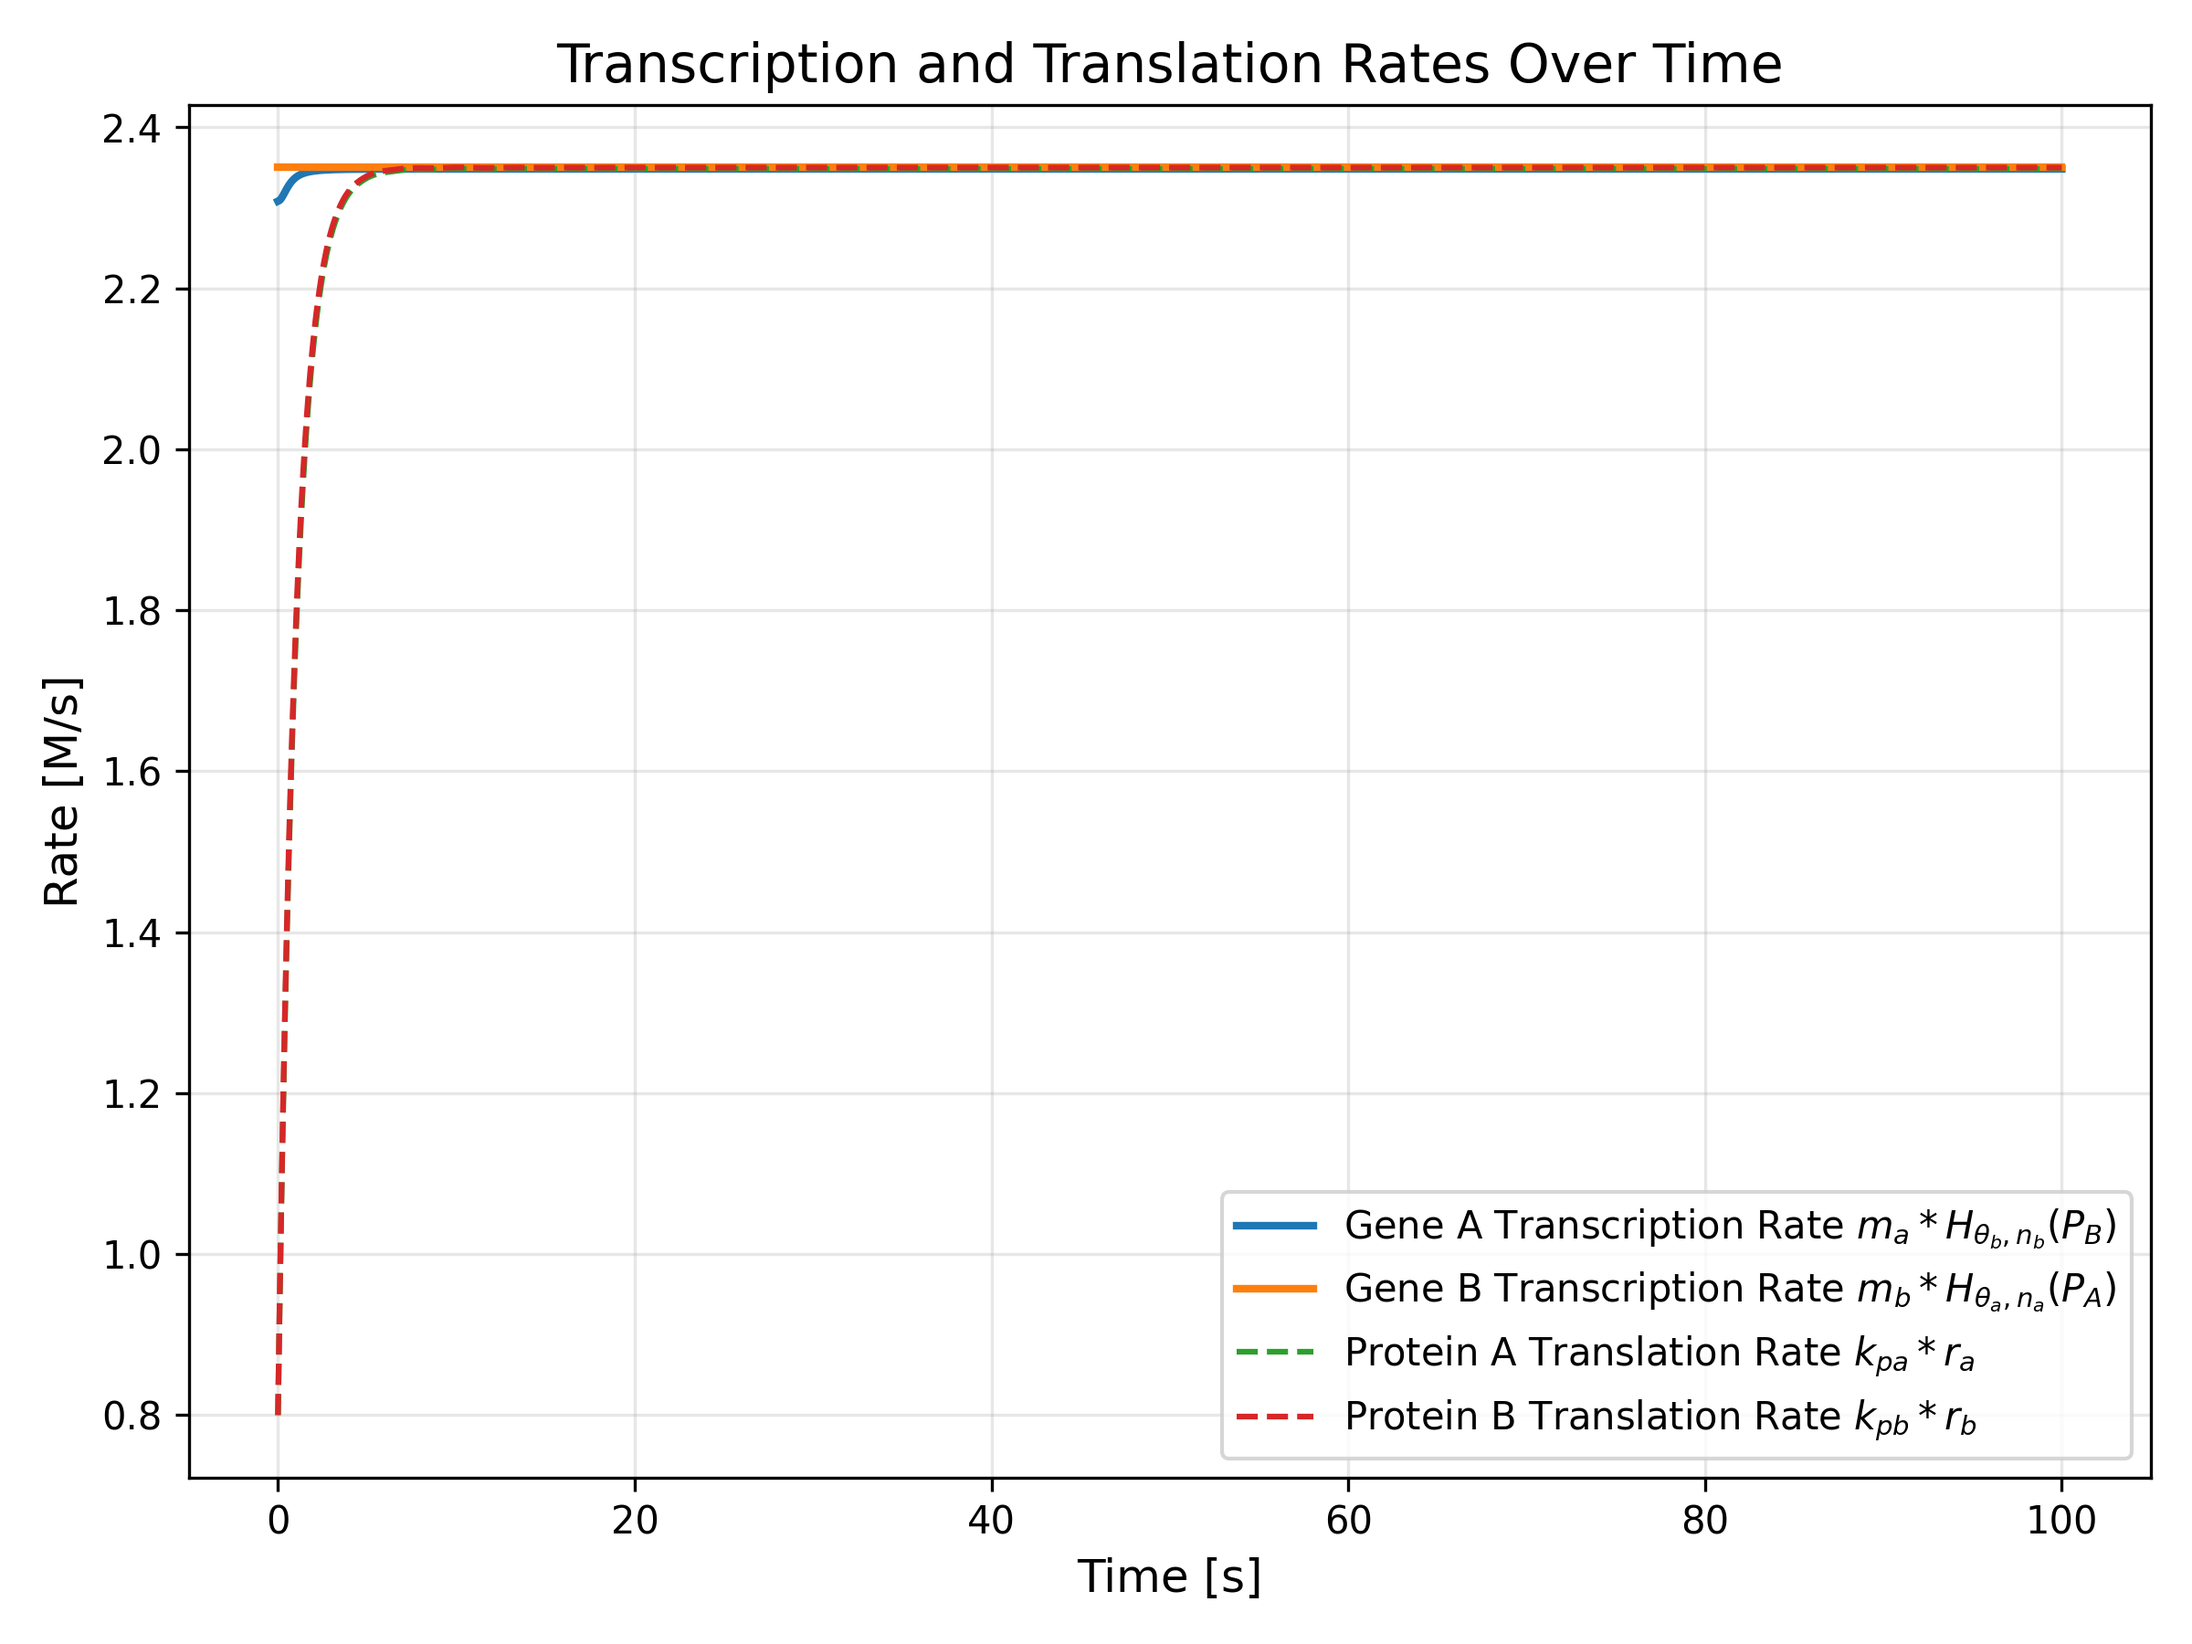
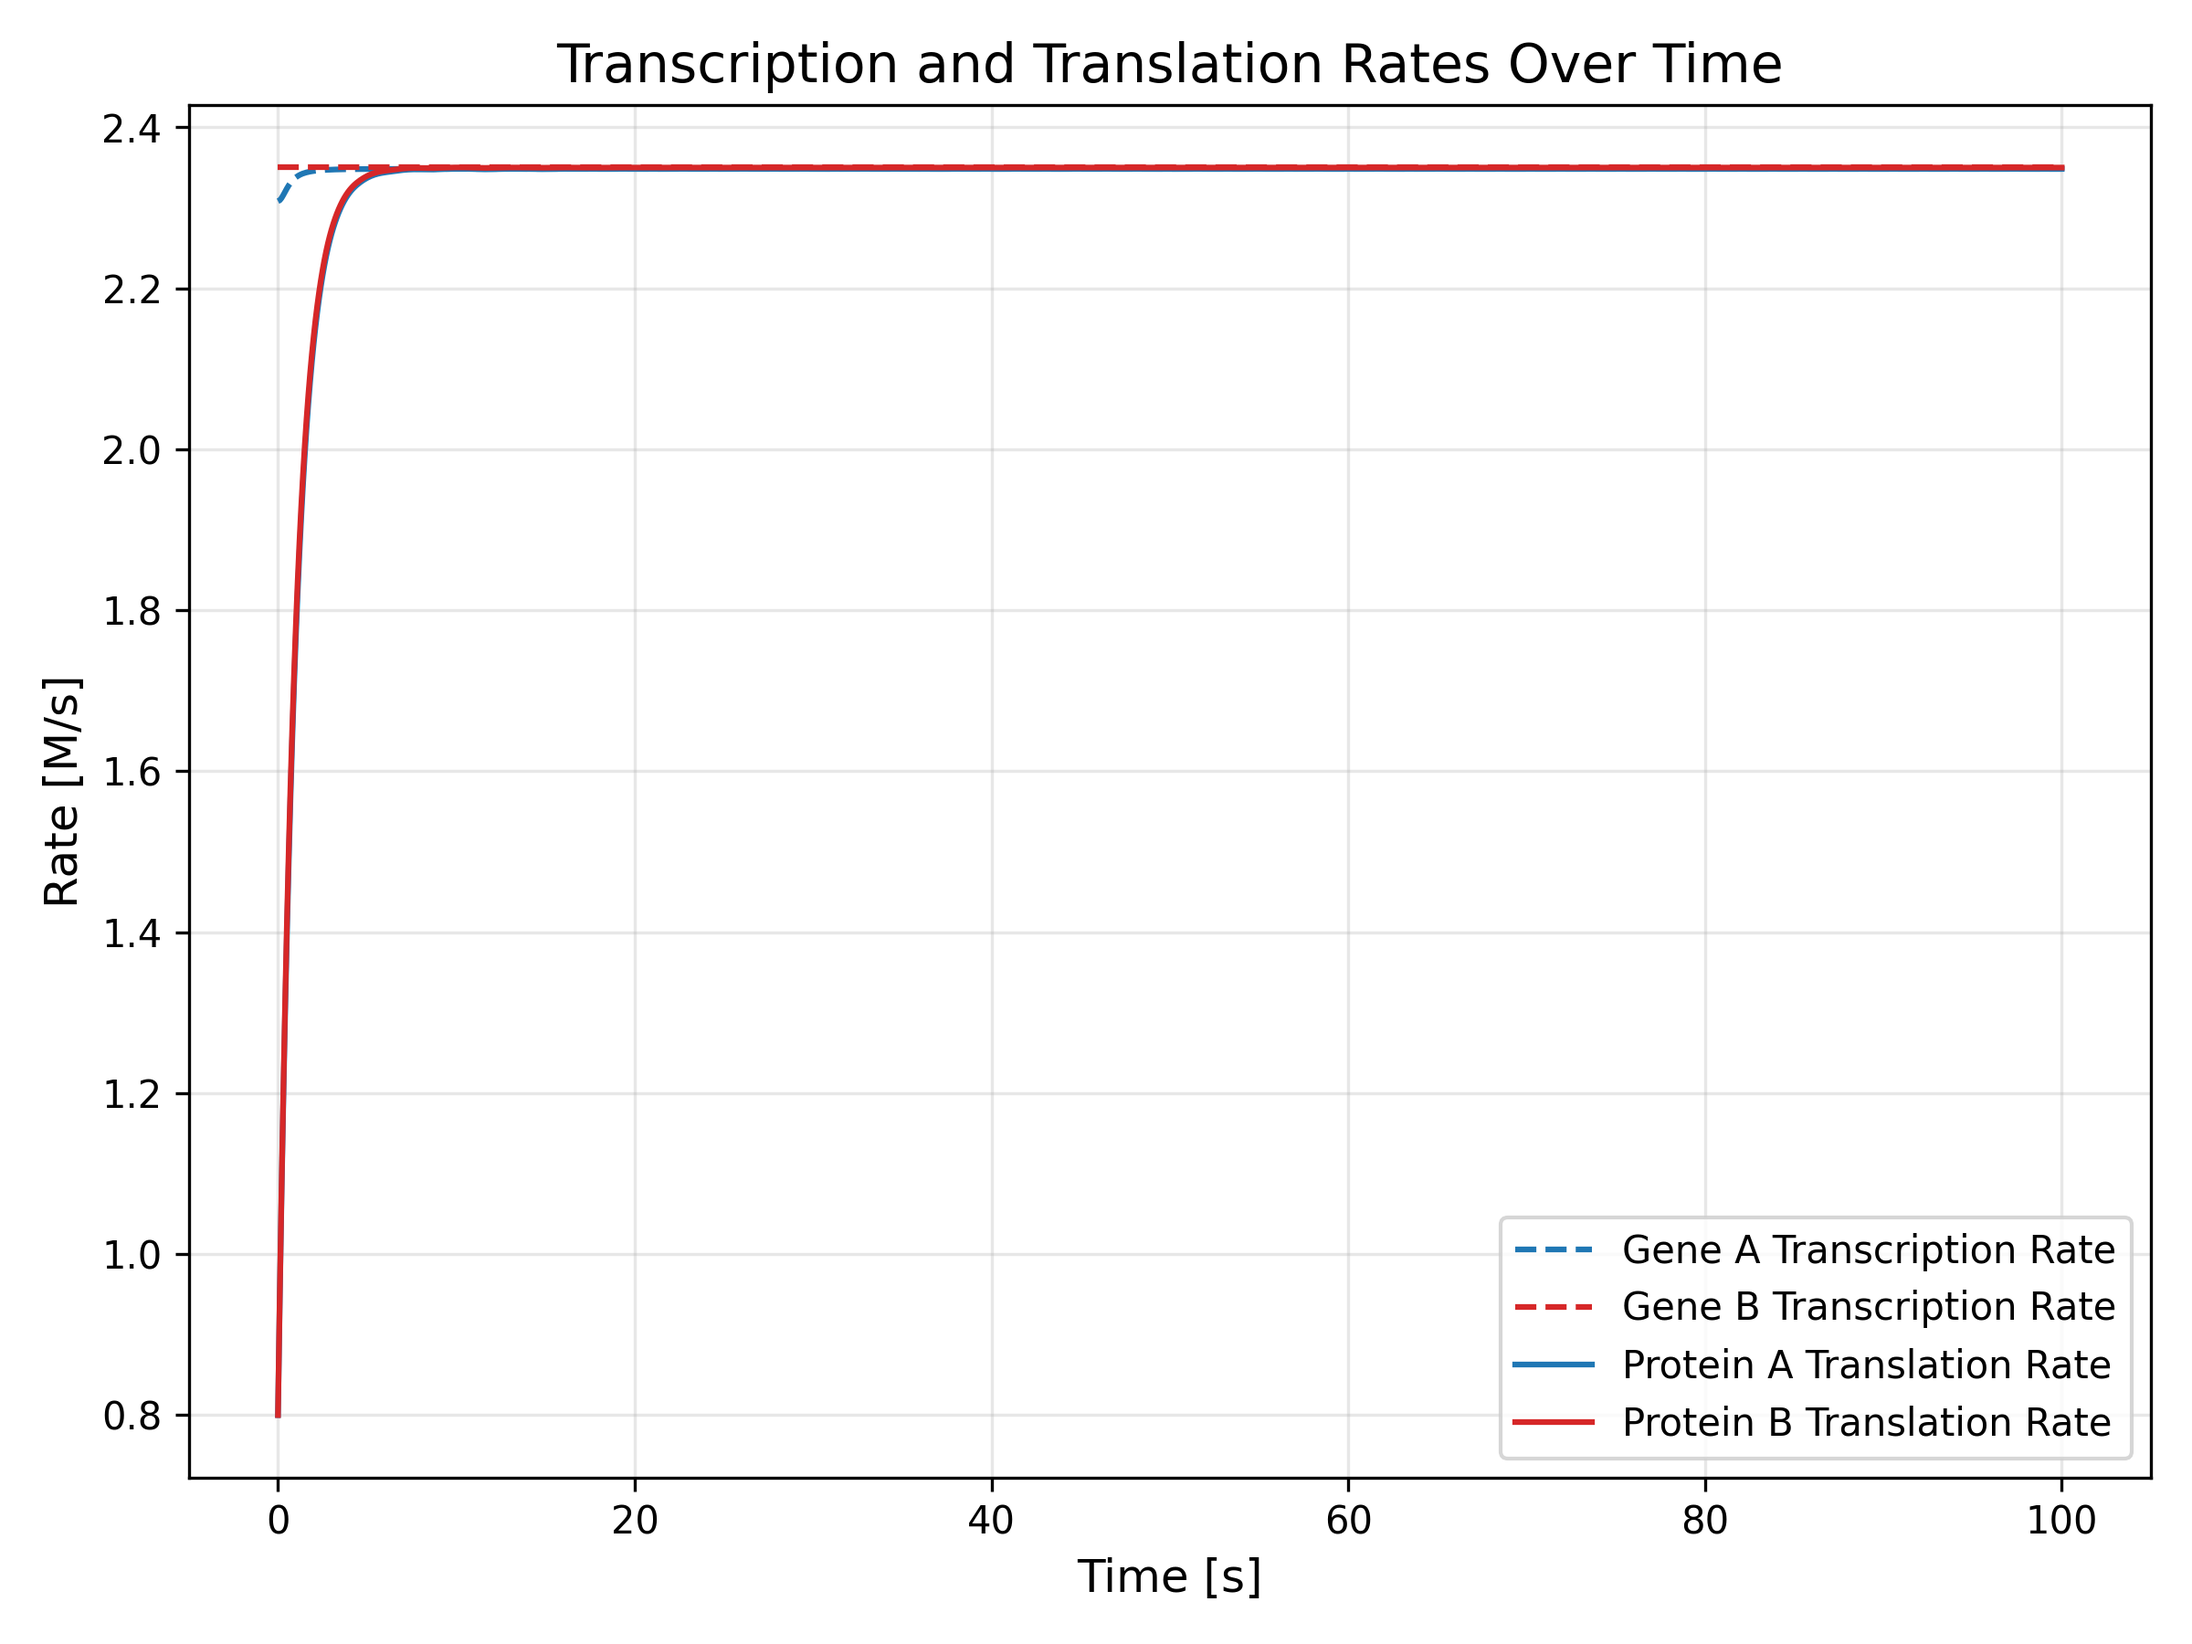
update plots and add headings

Changed region(s): [[0.5625, 0.7156, 0.9688, 0.8711], [0.125, 0.0933, 0.9375, 0.1244]]

diff --git a/assignment2/main.py b/assignment2/main.py
@@ -138,8 +138,8 @@ def concentration_overtime(sol, t, hijack=False):
     plt.figure(figsize=(8, 6))
     plt.plot(t, pA, label='Protein A', color = "tab:blue", linewidth=1.5)
     plt.plot(t, pB, label='Protein B', color = "tab:red", linewidth=1.5)
-    plt.plot(t, ra, label='mRNA A',linewidth=1.5, color = "tab:red", linestyle="--")
-    plt.plot(t, rb, label='mRNA B', linewidth=1.5, color = "tab:blue", linestyle="--")
+    plt.plot(t, ra, label='mRNA A',linewidth=1.5, color = "tab:blue", linestyle="--")
+    plt.plot(t, rb, label='mRNA B', linewidth=1.5, color = "tab:red", linestyle="--")
     plt.xlabel("Time [s]", fontsize=12)
     plt.ylabel("Concentration [M]", fontsize=12)
     plt.title("Time Evolution of Protein and mRNA Concentrations", fontsize=14)
@@ -353,8 +353,8 @@ def sdevelo_phase_portrait(
 
     pA_range = pA_max - pA_min if (pA_max - pA_min) > 0 else 1.0
     pB_range = pB_max - pB_min if (pB_max - pB_min) > 0 else 1.0
-
-    fig, ax = plt.subplots()
+    
+    fig, ax = plt.subplots(figsize=(8, 6))
 
     if show_vector_field and ode_func is not None:
         pA_grid = np.linspace(max(0, pA_min - padding * pA_range), pA_max + padding * pA_range, grid_size)
@@ -433,6 +433,7 @@ def sdevelo_multiplot(n_runs, dt, steps, sol_ode, title="", savefig=None):
     mean_p = np.mean(protein_runs, axis=0)
     err_p = 1.96 * (np.std(protein_runs, axis=0) / np.sqrt(n_runs))
 
+    plt.figure(figsize=(8, 6))
     plt.plot(t, mean_p[0], color="tab:blue")
     plt.fill_between(
         t, mean_p[0] - err_p[0], mean_p[0] + err_p[0], color="tab:blue", alpha=0.2
@@ -509,7 +510,7 @@ def plot_sdevelo_concentrations(
     err_p = 1.96 * (np.std(all_p, axis=0) / np.sqrt(n_runs))
 
     # 3. Plotting
-    fig, ax = plt.subplots()
+    fig, ax = plt.subplots(figsize=(8, 6))
 
     # Define styling: Colors for genes, linestyles for molecule types
     styles = [

diff --git a/assignment2/results.md b/assignment2/results.md
@@ -8,6 +8,8 @@ header-includes:
 
 # Assignment 2: Figures and tables
 
+## Patient Alpha
+
 ![Hill Activation, Inhibition and Hijacked Functions](plots/alpha_4_hill_functions.png)
 
 | Healthy State | Hijacked State |
@@ -15,6 +17,8 @@ header-includes:
 | ![Phase Portrait Healthy](plots/alpha_3_phase_space.png) | ![Phase Portrait Hijacked](plots/alpha_3_phase_space_hijack.png) |
 | ![Concentration Healthy](plots/alpha_1_proteins_mrna_time.png) | ![Concentration Hijacked](plots/alpha_1_proteins_mrna_time_hijack.png) |
 | ![Rates Healthy](plots/alpha_5_rates.png) | ![Rates Hijacked](plots/alpha_5_rates_hijack.png) |
+
+## Patient Beta
 
 ![Phase Portrait of the Protein concentrations of Patient Beta](plots/sdevelo_phase_portrait.png)
 
